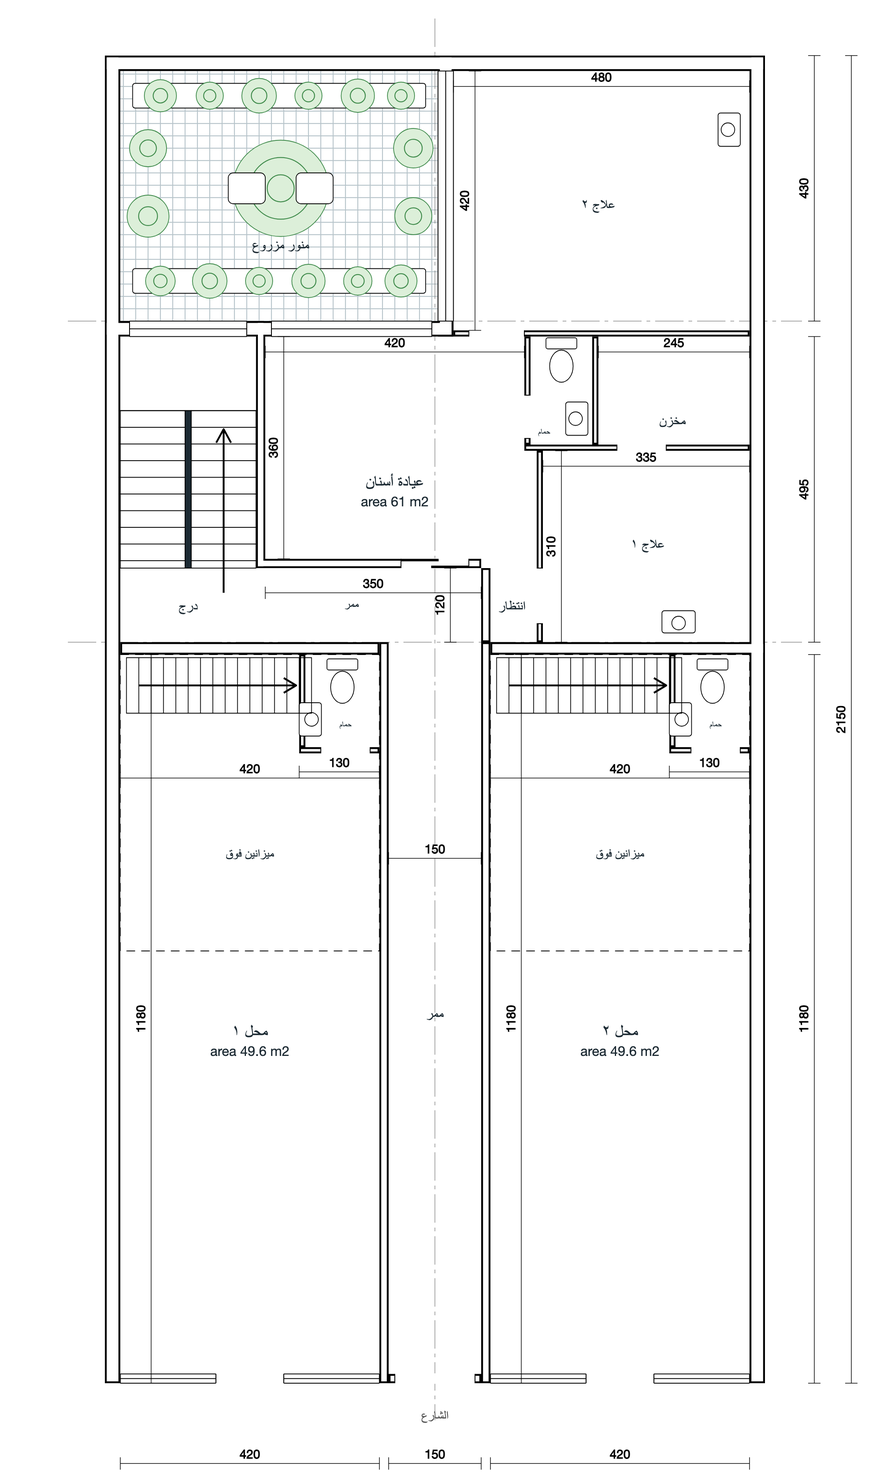
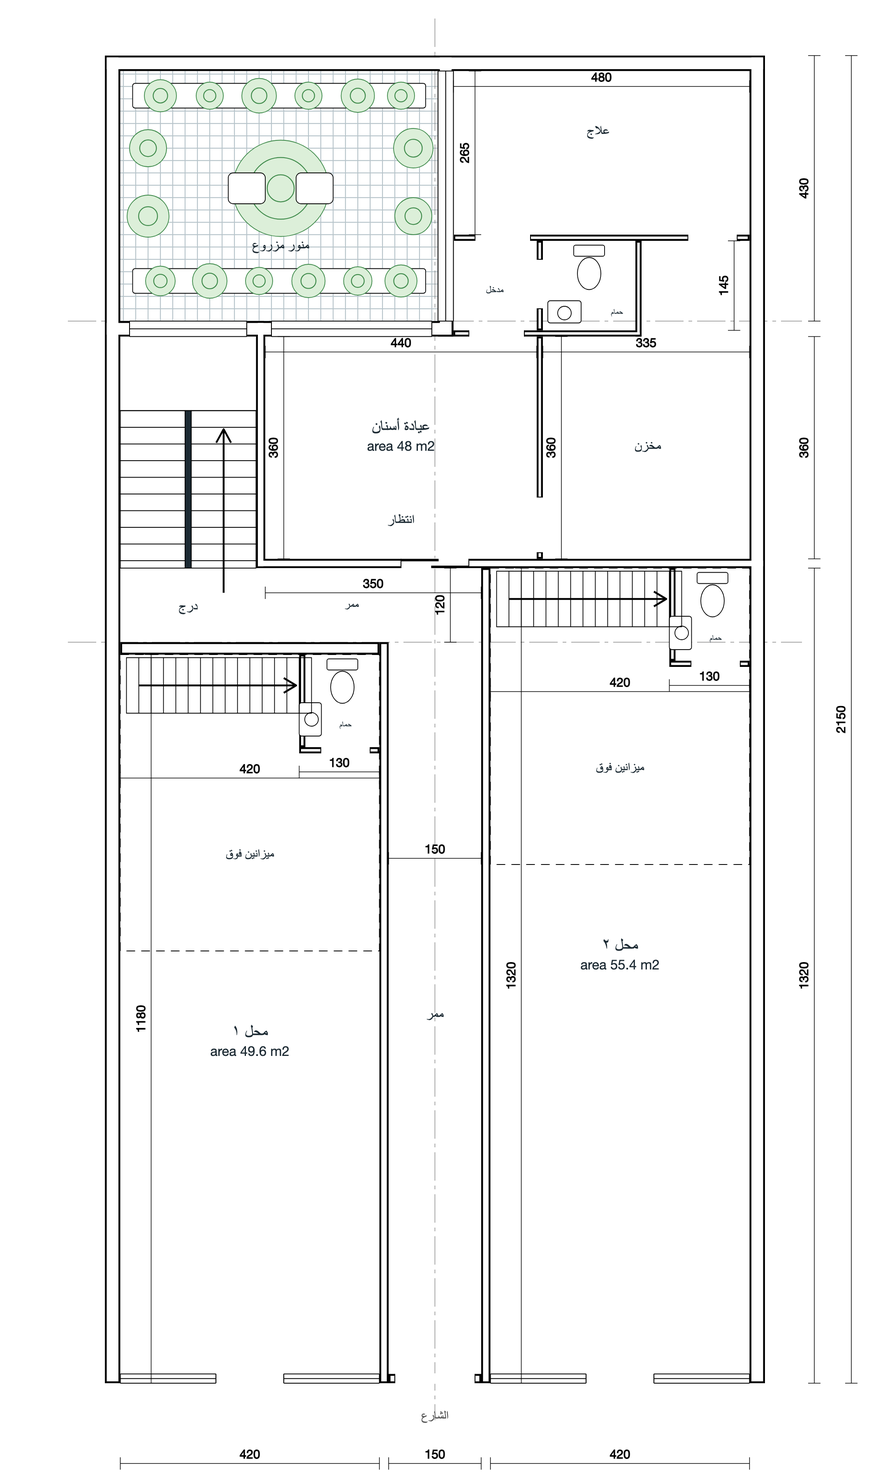
Deepen shop 2 to the clinic door, one treatment room, shops carry walls only
On the Option 3 ground floor shop 2 now runs back to the clinic's door
line (4.20 x 13.20 m, 55.4 m²), so the corridor at the end of the passage
serves only the stair. The clinic loses that strip and becomes 48 m² net:
waiting glazed to the garden, one treatment room at the back beside the
lightwell, the WC in a strip off a small lobby, and the store in the front
block's right-hand room, joined to the strip beside the WC (the second
treatment room was cancelled and merged with the store).

The sheet's saleable areas are re-based. The shops have their own street
doors, so they carry their walls only (full outer wall, half of each shared
wall): 113.9 m² instead of 128.0. The passage, corridor and stair hall serve
the clinic and the six suites above, so those 38 m² are shared between the
seven units on top of their own walls. The sales lines keep their shape but
mean different things now, so the sheet's schema is bumped to 2 and a sheet
saved under the old layout is ignored until it is saved again.

Claude-Session: https://claude.ai/code/session_0173Xs9HWCm2KbeW7pnGTKvA

diff --git a/option-3.html b/option-3.html
@@ -503,18 +503,18 @@
 
     <div class="row" data-kind="rev">
       <div class="row-name">
-        <span class="n">Street shops (2 × 49.6 m²)</span>
-        <span class="n-ar ar">المحلات على الشارع (محلان × ٤٩٫٦ م²)</span>
+        <span class="n">Street shops (49.6 + 55.4 m²)</span>
+        <span class="n-ar ar">المحلات على الشارع (٤٩٫٦ + ٥٥٫٤ م²)</span>
         <span class="tag" data-load></span>
       </div>
       <div class="field">
         <label for="u1">Usable area <span class="u">m²</span><span class="ar">المساحة الصافية</span></label>
-        <input id="u1" type="number" min="0" step="0.01" value="99.1" data-usable>
+        <input id="u1" type="number" min="0" step="0.01" value="105" data-usable>
       </div>
       <div class="field">
         <label for="l1">Saleable area <span class="u">m²</span><span class="ar">المساحة البيعية</span></label>
-        <input id="l1" type="number" min="0" step="0.01" value="128.00" data-loaded>
-        <span class="hint">= usable + share of common areas<span class="ar">= الصافية + حصة المشاع والجدران</span></span>
+        <input id="l1" type="number" min="0" step="0.01" value="113.92" data-loaded>
+        <span class="hint">= usable + the shop's walls only, no common area<span class="ar">= الصافية + جدران المحل فقط، بلا مشاع</span></span>
       </div>
       <div class="field">
         <label for="p1">Price <span class="u">$ / m²</span><span class="ar">سعر المتر</span></label>
@@ -553,17 +553,17 @@
 
     <div class="row" data-kind="rev">
       <div class="row-name">
-        <span class="n">Rear dental clinic (61 m²)</span>
-        <span class="n-ar ar">عيادة الأسنان الخلفية (٦١ م²)</span>
+        <span class="n">Rear dental clinic (48 m²)</span>
+        <span class="n-ar ar">عيادة الأسنان الخلفية (٤٨ م²)</span>
         <span class="tag" data-load></span>
       </div>
       <div class="field">
         <label for="u3">Usable area <span class="u">m²</span><span class="ar">المساحة الصافية</span></label>
-        <input id="u3" type="number" min="0" step="0.01" value="61" data-usable>
+        <input id="u3" type="number" min="0" step="0.01" value="48.4" data-usable>
       </div>
       <div class="field">
         <label for="l3">Saleable area <span class="u">m²</span><span class="ar">المساحة البيعية</span></label>
-        <input id="l3" type="number" min="0" step="0.01" value="78.79" data-loaded>
+        <input id="l3" type="number" min="0" step="0.01" value="60.00" data-loaded>
         <span class="hint">= usable + share of common areas<span class="ar">= الصافية + حصة المشاع والجدران</span></span>
       </div>
       <div class="field">
@@ -593,7 +593,7 @@
       </div>
       <div class="field">
         <label for="l4">Saleable area <span class="u">m²</span><span class="ar">المساحة البيعية</span></label>
-        <input id="l4" type="number" min="0" step="0.01" value="62.42" data-loaded>
+        <input id="l4" type="number" min="0" step="0.01" value="68.00" data-loaded>
         <span class="hint">= usable + share of common areas<span class="ar">= الصافية + حصة المشاع والجدران</span></span>
       </div>
       <div class="field">
@@ -618,7 +618,7 @@
       </div>
       <div class="field">
         <label for="l5">Saleable area <span class="u">m²</span><span class="ar">المساحة البيعية</span></label>
-        <input id="l5" type="number" min="0" step="0.01" value="68.45" data-loaded>
+        <input id="l5" type="number" min="0" step="0.01" value="74.57" data-loaded>
         <span class="hint">= usable + share of common areas<span class="ar">= الصافية + حصة المشاع والجدران</span></span>
       </div>
       <div class="field">
@@ -643,7 +643,7 @@
       </div>
       <div class="field">
         <label for="l6">Saleable area <span class="u">m²</span><span class="ar">المساحة البيعية</span></label>
-        <input id="l6" type="number" min="0" step="0.01" value="53.17" data-loaded>
+        <input id="l6" type="number" min="0" step="0.01" value="57.93" data-loaded>
         <span class="hint">= usable + share of common areas<span class="ar">= الصافية + حصة المشاع والجدران</span></span>
       </div>
       <div class="field">
@@ -673,7 +673,7 @@
       </div>
       <div class="field">
         <label for="l7">Saleable area <span class="u">m²</span><span class="ar">المساحة البيعية</span></label>
-        <input id="l7" type="number" min="0" step="0.01" value="62.42" data-loaded>
+        <input id="l7" type="number" min="0" step="0.01" value="68.00" data-loaded>
         <span class="hint">= usable + share of common areas<span class="ar">= الصافية + حصة المشاع والجدران</span></span>
       </div>
       <div class="field">
@@ -698,7 +698,7 @@
       </div>
       <div class="field">
         <label for="l8">Saleable area <span class="u">m²</span><span class="ar">المساحة البيعية</span></label>
-        <input id="l8" type="number" min="0" step="0.01" value="68.45" data-loaded>
+        <input id="l8" type="number" min="0" step="0.01" value="74.57" data-loaded>
         <span class="hint">= usable + share of common areas<span class="ar">= الصافية + حصة المشاع والجدران</span></span>
       </div>
       <div class="field">
@@ -723,7 +723,7 @@
       </div>
       <div class="field">
         <label for="l9">Saleable area <span class="u">m²</span><span class="ar">المساحة البيعية</span></label>
-        <input id="l9" type="number" min="0" step="0.01" value="53.17" data-loaded>
+        <input id="l9" type="number" min="0" step="0.01" value="57.93" data-loaded>
         <span class="hint">= usable + share of common areas<span class="ar">= الصافية + حصة المشاع والجدران</span></span>
       </div>
       <div class="field">
@@ -1081,11 +1081,11 @@
     <div class="plan-grid">
       <figure>
         <img src="option-3/plan-ground.svg" width="1420" height="2400"
-             alt="Option 3 ground floor plan: a 1.50 metre passage on the axis of the facade between two shops of 4.20 by 11.80 metres with mezzanines, the dental clinic entered from the end of the passage, and a short corridor turning left to the daylit stair">
+             alt="Option 3 ground floor plan: a 1.50 metre passage on the axis of the facade between two shops of 4.20 metres, 11.80 deep on the left and 13.20 on the right, with mezzanines; the dental clinic entered from the end of the passage, and a short corridor turning left to the daylit stair">
         <figcaption>
-          <strong>Ground floor.</strong> A 1.50 m passage on the axis of the facade, a shop of 4.20 × 11.80 m either side, each with a mezzanine over its back half under the 5.00 m ground floor and a WC and store beneath it.
-          The dental clinic is entered from the end of the passage; a corridor 1.35 m deep, taken from the clinic's front edge, turns left to the stair, whose hall is glazed onto the lightwell. Inside, the waiting room is glazed onto the planted lightwell, with the WC and store in the far corner and the two treatment rooms on the right. The clinic keeps 61 m². Each shop has a mezzanine over its back half, reached by a stair along the back wall.
-          <span class="ar">الطابق الأرضي: ممر بعرض ١٫٥٠ م على محور الواجهة، ومحل بمقاس ٤٫٢٠ × ١١٫٨٠ م على كل جانب، لكل منهما ميزانين فوق نصفه الخلفي تحت ارتفاع ٥٫٠٠ م وحمام ومستودع تحته. تُدخل عيادة الأسنان من نهاية الممر، ويتجه ممر بعمق ١٫٣٥ م مقتطع من مقدمة العيادة يساراً إلى الدرج، وصالته مزجّجة على المنور. في الداخل غرفة الانتظار مزجّجة على المنور المزروع، والحمام والمخزن في الزاوية البعيدة وغرفتا العلاج على اليمين. تبقى للعيادة ٦١ م². لكل محل ميزانين فوق نصفه الخلفي يُصعد إليه بدرج على الجدار الخلفي</span>
+          <strong>Ground floor.</strong> A 1.50 m passage on the axis of the facade with a 4.20 m shop either side: shop 1 is 11.80 m deep, shop 2 runs back to the clinic's door line and is 13.20 m deep. Each has a mezzanine over its back half under the 5.00 m ground floor and a WC beneath it.
+          The dental clinic is entered from the end of the passage; a corridor 1.35 m deep turns left to the stair, whose hall is glazed onto the lightwell. Inside, the waiting room is glazed onto the planted lightwell; the treatment room is at the back beside the lightwell, with the WC and a small lobby in front of it, and the store takes the right-hand room of the front block, running through beside the WC (the second treatment room was dropped and merged with the store). The clinic is 48 m² net.
+          <span class="ar">الطابق الأرضي: ممر بعرض ١٫٥٠ م على محور الواجهة ومحل بعرض ٤٫٢٠ م على كل جانب: المحل ١ بعمق ١١٫٨٠ م، والمحل ٢ يمتد إلى خط باب العيادة بعمق ١٣٫٢٠ م. لكل منهما ميزانين فوق نصفه الخلفي تحت ارتفاع ٥٫٠٠ م وحمام تحته. تُدخل عيادة الأسنان من نهاية الممر، ويتجه ممر بعمق ١٫٣٥ م يساراً إلى الدرج، وصالته مزجّجة على المنور. في الداخل غرفة الانتظار مزجّجة على المنور المزروع، وغرفة العلاج في الخلف بجانب المنور وأمامها الحمام ومدخل صغير، والمخزن يشغل الغرفة اليمنى من الجزء الأمامي ويمتد بجانب الحمام (أُلغيت غرفة العلاج الثانية ودُمجت مع المخزن). صافي العيادة ٤٨ م²</span>
         </figcaption>
       </figure>
       <figure>
@@ -1106,13 +1106,17 @@
 
   <p class="note">
     Sales totals are saleable area × price per m². Cost totals are quantity × rate, plus contingency.
-    Usable area is the net area of each unit on the Option 3 plans. Saleable area shares each floor plate
-    (walls, corridor and stair) between its units in proportion to their size: the ground floor plate is
-    206.8 m² over 160.1 m² of units, a typical floor 184.0 m² over 155.7 m². The mezzanines are extra area
-    inside the shops, not part of the plate, so they carry no loading.
+    Usable area is the net area of each unit on the Option 3 plans. The shops have their own street doors,
+    so their saleable area is the net area plus their walls only (the full outer wall and half of each
+    shared wall): 53.9 + 60.1 m², no share of any common area. The passage, corridor and stair hall
+    (38.0 m²) serve the clinic and the six suites above, so they are shared between those seven units in
+    proportion to their size, on top of each unit's own walls: the clinic is 54.9 m² to its walls and
+    carries 5.1 m² of the common area; a typical floor plate of 184.0 m² is shared between its three suites
+    (155.7 m² net), which then carry 16.5 m² of the ground-floor common area between them. The mezzanines
+    are extra area inside the shops, not part of the plate, so they carry no loading.
     <strong>Prices, rates and the built area are the Option 2 figures, so the three options compare like
     for like; the mezzanine price and slab rate are assumptions for the engineer to confirm.</strong>
-    <span class="ar">المساحة الصافية هي مساحة كل وحدة على مخططات الخيار الثالث، والمساحة البيعية توزّع مساحة الطابق على الوحدات بنسبة مساحاتها. الميزانين مساحة إضافية داخل المحل بلا مشاع. الأسعار والتكاليف هي أرقام الخيار الثاني للمقارنة على الأساس نفسه، وسعر الميزانين وكلفة بلاطته افتراضان يؤكدهما المهندس</span>
+    <span class="ar">المساحة الصافية هي مساحة كل وحدة على مخططات الخيار الثالث. للمحلات أبوابها على الشارع، فمساحتها البيعية هي الصافية زائد جدرانها فقط (الجدار الخارجي كاملاً ونصف كل جدار مشترك) بلا أي مشاع. الممر والدرج (٣٨٫٠ م²) يخدمان العيادة والعيادات الست فوقها، فيوزّعان على هذه الوحدات السبع بنسبة مساحاتها فوق جدران كل وحدة. الميزانين مساحة إضافية داخل المحل بلا مشاع. الأسعار والتكاليف هي أرقام الخيار الثاني للمقارنة على الأساس نفسه، وسعر الميزانين وكلفة بلاطته افتراضان يؤكدهما المهندس</span>
   </p>
 
 </div>
@@ -1173,11 +1177,11 @@
 
   // ---- unit list: src = index of the sales line, w = weight within that line ----
   var UNITS = [
-    {src:0, w:1, en:"Shop 1 (49.6 m²)", ar:"محل ١", def:"dev"},
-    {src:0, w:1, en:"Shop 2 (49.6 m²)", ar:"محل ٢", def:"dev"},
+    {src:0, w:49.6, en:"Shop 1 (49.6 m²)", ar:"محل ١", def:"dev"},
+    {src:0, w:55.4, en:"Shop 2 (55.4 m²)", ar:"محل ٢", def:"dev"},
     {src:1, w:1, en:"Shop 1 mezzanine", ar:"ميزانين محل ١", def:"dev"},
     {src:1, w:1, en:"Shop 2 mezzanine", ar:"ميزانين محل ٢", def:"dev"},
-    {src:2, w:1, en:"Dental clinic (61 m²)", ar:"عيادة الأسنان", def:"dev"},
+    {src:2, w:1, en:"Dental clinic (48 m²)", ar:"عيادة الأسنان", def:"dev"},
     {src:3, w:1, en:"Floor 1 — suite A (53 m²)", ar:"الطابق الأول — عيادة أ", def:"land"},
     {src:4, w:1, en:"Floor 1 — suite B (58 m²)", ar:"الطابق الأول — عيادة ب", def:"land"},
     {src:5, w:1, en:"Floor 1 — rear suite (45 m²)", ar:"الطابق الأول — العيادة الخلفية", def:"land"},
@@ -1339,8 +1343,10 @@
 
   /* Bump whenever the sales lines change shape. Figures saved under an older
      layout key their values to fields that no longer mean the same thing, so
-     they are ignored rather than misapplied. */
-  var SCHEMA = 1;
+     they are ignored rather than misapplied. v2: shop 2 deepened to the clinic
+     door line, the clinic reduced to 48 m², and saleable areas re-based so the
+     shops carry their walls only. */
+  var SCHEMA = 2;
 
   var lastSaved = null;   // last state known to be in the store
   var dirty     = false;

diff --git a/option-3/plans.py b/option-3/plans.py
@@ -40,34 +40,55 @@ def shell_ground(p):
 
 def clinic(p, cross=False):
     """The Option 2 dental clinic. With cross=True a corridor 1.35 m deep is cut
-    off its front edge between the stair hall and the passage, and the entrance
-    moves to the axis."""
-    """The Option 2 dental clinic, unchanged: it already works."""
+    off its front edge between the stair hall and the passage, the entrance
+    moves to the axis, and shop 2 runs back to the clinic's door line, so the
+    clinic is the front block (7.85 x 3.60) and the block beside the lightwell
+    (4.80 x 4.20): waiting glazed to the garden, one treatment room at the back
+    beside the lightwell, the WC in a strip off a small lobby, and a store in
+    the front block's right-hand room, joined to the strip beside the WC."""
     if cross:
         p.vwall(245, 430, 830, PW)
-        p.hwall(245, 610, 815, 15); p.door_slide_h(480, 815, 830, 110)
-        p.vwall(610, 830, 950, 15)
+        p.hwall(245, W, 815, 15); p.door_slide_h(480, 815, 830, 110)
     else:
         p.vwall(245, 430, 950, PW)
         p.door_v(245, 260, 850, 90, "b", "r")
+    p.glass_h(270, 530, 430, 455)                               # the waiting room's garden wall, all glass
+    p.hwall(565, 1045 if not cross else 870, 445, IW); p.door_h(590, 445, 455, 90, "l", "u")
+    p.glass_v(540, 565, 25, 430)
+    if cross:
+        # front block: waiting on the garden; on the right the store, which runs
+        # through into the strip beside the WC (the treatment room that was here
+        # was cancelled and merged with the store)
+        p.vwall(700, 455, 815, IW); p.door_v(700, 710, 715, 90, "b", "r")
+        p.counter(430, 700, 180, 60); p.chair(520, 670, 0)
+        p.sofa(270, 650, 60, 150, "l"); p.rect(350, 720, 60, 60, rx=6)
+        p.shelf(1000, 470, 40, 330); p.shelf(715, 470, 40, 200)
+        # back block: a lobby off the waiting room and the WC in a 1.45 m strip,
+        # the treatment room across the back; the store also opens off it
+        p.hwall(565, 1045, 290, IW); p.door_h(600, 290, 300, 90, "l", "u"); p.door_h(945, 290, 300, 80, "r", "u")
+        p.vwall(700, 300, 445, IW); p.door_v(700, 710, 330, 80, "t", "r")
+        p.vwall(860, 300, 455, IW)
+        p.toilet(785, 345, 0); p.basin(745, 415, 0)
+        p.dental_chair(800, 160)
+        p.unit(480, 610, "عيادة أسنان", "48 m²")
+        p.room(480, 760, "انتظار", "Waiting", 22)
+        p.room(880, 640, "مخزن", "Store", 22); p.room(800, 130, "علاج", "Treatment", 22)
+        p.label(830, 420, "حمام", size=13)
+        p.room(632, 385, "مدخل", None, 16)
+        p.dim_h(260, 700, 480, "440"); p.dim_v(290, 455, 815, "360")
+        p.dim_h(710, 1045, 480, "335"); p.dim_v(740, 455, 815, "360")
+        p.dim_h(565, 1045, 50, "480"); p.dim_v(600, 25, 290, "265")
+        p.dim_v(1020, 300, 445, "145")
+        return
     p.vwall(700, 640, 950, IW); p.door_v(700, 710, 830, 90, "b", "r")
     # along the lightwell wall: the waiting room, glazed to the garden, then the WC
     # against the store wall, then the store
     p.hwall(680, 1045, 630, IW)
-    p.glass_h(270, 530, 430, 455)                               # the waiting room's garden wall, all glass
     p.vwall(680, 455, 630, IW); p.door_v(680, 690, 550, 70, "t", "r")   # WC in the corner by the store
     p.vwall(790, 455, 630, IW); p.door_h(830, 630, 640, 80, "l", "u")   # store
-    p.hwall(565, 1045, 445, IW); p.door_h(590, 445, 455, 90, "l", "u")
-    p.glass_v(540, 565, 25, 430)
-    if cross:
-        p.counter(430, 700, 180, 60); p.chair(520, 670, 0)
-        p.sofa(270, 650, 60, 150, "l"); p.rect(350, 720, 60, 60, rx=6); p.sofa(635, 650, 60, 150, "r")
-        p.unit(470, 700, "عيادة أسنان", "61 m²")
-        p.dim_h(260, 680, 480, "420"); p.dim_v(290, 455, 815, "360")
-    else:
-        p.counter(430, 655, 180, 60); p.chair(520, 745, 180)
-        p.sofa(270, 650, 60, 190, "l"); p.rect(350, 780, 60, 60, rx=6); p.sofa(400, 880, 200, 60, "b")
-        p.unit(560, 800, "عيادة أسنان", "66 m²", "Dental clinic")
+    p.counter(430, 655, 180, 60); p.chair(520, 745, 180)
+    p.sofa(270, 650, 60, 190, "l"); p.rect(350, 780, 60, 60, rx=6); p.sofa(400, 880, 200, 60, "b")
+    p.unit(560, 800, "عيادة أسنان", "66 m²", "Dental clinic")
     p.counter(830, 890, 200, 55); p.basin(930, 917, 0); p.dental_chair(860, 760, 90)
     p.toilet(740, 495, 0); p.basin(765, 588, 90)
     p.shelf(805, 460, 235, 40); p.shelf(1000, 505, 40, 120)
@@ -153,7 +174,7 @@ def shop(p, a, b, ytop, i, area, dims):
     p.f(f'<line x1="{sx0+20}" y1="{(sy0+sy1)/2}" x2="{sx1-25}" y2="{(sy0+sy1)/2}" stroke-width="3"/>'
         f'<path d="M{sx1-45} {(sy0+sy1)/2-12} L{sx1-25} {(sy0+sy1)/2} L{sx1-45} {(sy0+sy1)/2+12}" fill="none" stroke-width="3"/>')
     p.room(m, ytop + 330, "ميزانين فوق", "Mezzanine over", 20)
-    p.dim_h(a, b, ytop + 200, "420"); p.dim_v(a + 50, ytop, D, "1180")
+    p.dim_h(a, b, ytop + 200, "420"); p.dim_v(a + 50, ytop, D, str(D - ytop))
     p.dim_h(b - 130, b, ytop + 190, "130")
     # sales floor
     p.shelf(a + 5, ytop + 500, 40, 2030 - ytop - 500); p.shelf(b - 45, ytop + 630, 40, 2030 - ytop - 630)
@@ -167,18 +188,19 @@ def shop(p, a, b, ytop, i, area, dims):
 def ground_central():
     """The passage on the facade's axis; at its end a corridor 1.35 m deep, cut
     from the clinic's front edge, turns left to the stair. The clinic is
-    entered from the axis. Both shops keep their full depth."""
+    entered from the axis. Shop 1 keeps its 11.80 m depth; shop 2 runs back to
+    the clinic's door line, 13.20 m, so the corridor serves only the stair."""
     p = Plan(); p.furniture = False; p.door_swings = False; p.cad = True
     shell_ground(p)
     clinic(p, cross=True)
     p.glass_h(40, 230, 430, 455)
     p.stair(25, 455, 220, 495)
     p.room(135, 900, "درج", "Stair · daylit", 22)
-    p.hwall(25, 445, 950, 20); p.hwall(625, W, 950, 20)        # the shops' back walls
-    p.vwall(445, 950, D, PW); p.vwall(610, 950, D, PW)          # the passage
+    p.hwall(25, 445, 950, 20)                                   # shop 1's back wall
+    p.vwall(445, 950, D, PW); p.vwall(610, 830, D, PW)          # the passage
     p.hwall(460, 610, 2135, 15); p.door_h(470, 2135, 2150, 130, "l", "u")
     shop(p, 25, 445, 970, 0, "49.6 m²", "4.20 × 11.80")
-    shop(p, 625, 1045, 970, 1, "49.6 m²", "4.20 × 11.80")
+    shop(p, 625, 1045, 830, 1, "55.4 m²", "4.20 × 13.20")
     p.room(535, 1560, "ممر", "Passage 1.50", 22)
     p.dim_h(460, 610, 1300, "150")
     p.room(400, 895, "ممر", None, 18)
@@ -189,7 +211,7 @@ def ground_central():
     p.dim_h(25, 445, y, "420"); p.dim_h(460, 610, y, "150"); p.dim_h(625, 1045, y, "420")
     x = W + 80
     p.dim_v(x + 60, 0, D, "2150")
-    p.dim_v(x, 0, 430, "430"); p.dim_v(x, 455, 950, "495"); p.dim_v(x, 970, D, "1180")
+    p.dim_v(x, 0, 430, "430"); p.dim_v(x, 455, 815, "360"); p.dim_v(x, 830, D, "1320")
     return p
 
 
